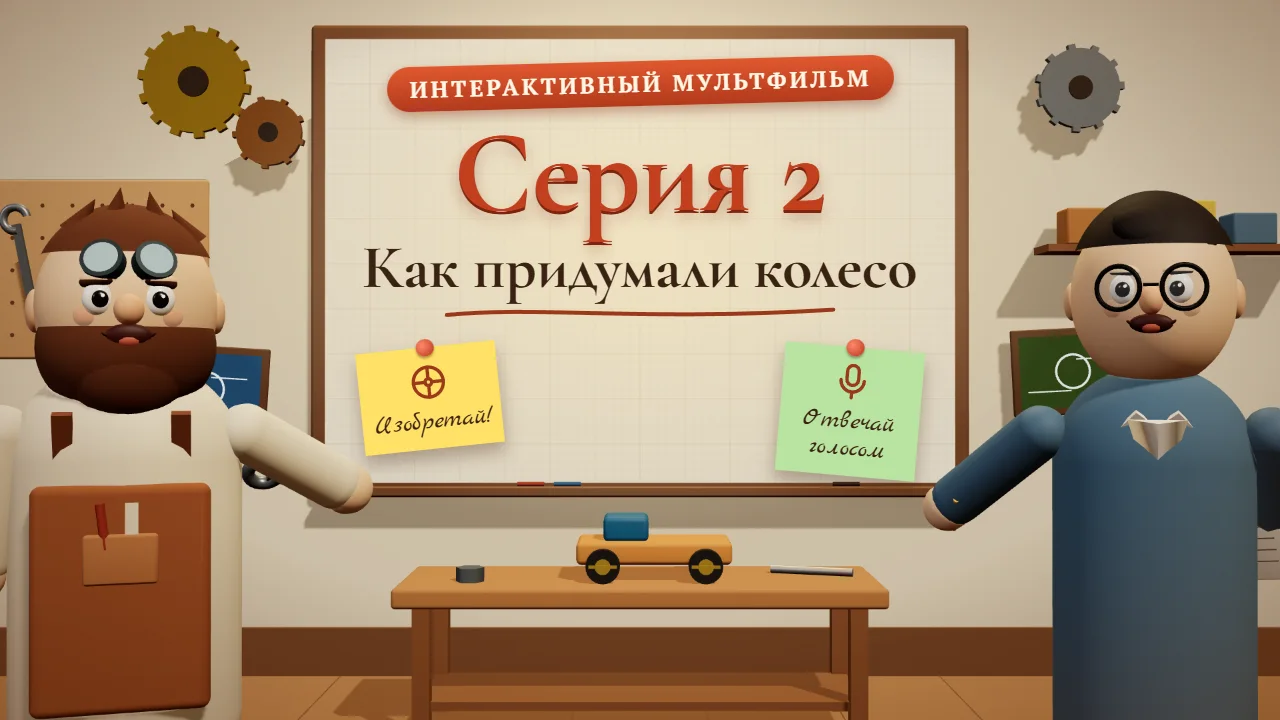
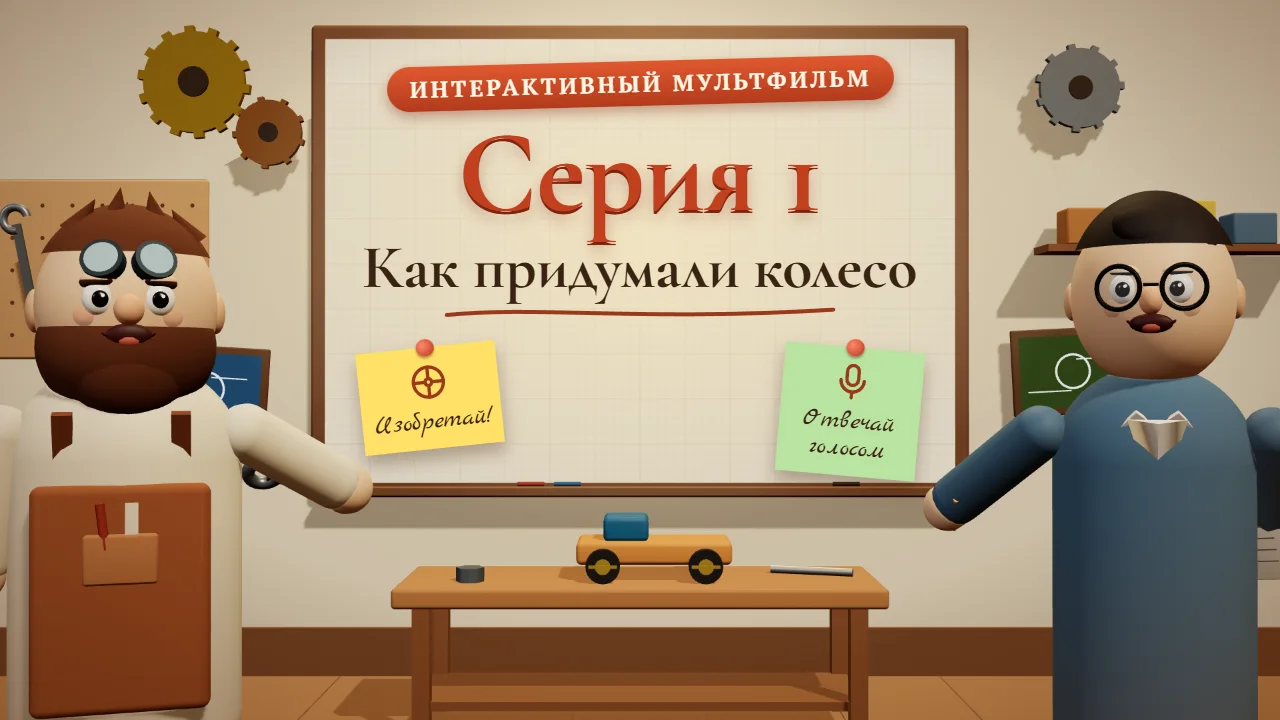
Нумерация с нуля: вводное — Занятие 0 и Серия 0; исправлена загрузка серии ep4
- Блоки курса «Колесо»: Занятие 0. Вводное, Занятие 1. Колесо… (миграция 20261103000040, откат в rollback);
  кружки на странице курса и «Земля N» на карте считают с 0, если первый блок вводный
- Серии: ep1 — Серия 0, ep2 — 1, ep3 — 2, ep4 — 3 (названия в плеере, обложки)
- ep4: slots: {} — без него плеер падал («Не удалось загрузить серию»); в плеере защита E.slots || {}

Changed region(s): [[0.375, 0.1833, 0.6562, 0.3361], [0.3438, 0.2139, 0.375, 0.275]]

diff --git a/episode.js b/episode.js
@@ -12,7 +12,7 @@
 // onAnswer({ run, node, question, answer, heard, via, tag }) — ответ на вопрос серии (run — один просмотр,
 // via: voice | text | button | mixed | skip | timeout, heard — что дословно распознал микрофон, tag — следующий узел).
 // Если onAnswer вернёт обещание с { deltas } (очки героя), плеер покажет их поверх кадра (Hero.pop из hero.js).
-// Серия 1 описана здесь; остальные — в episodes/<серия>.js (Episode.define), плеер подгружает файл, когда серию открывают.
+// Серия 0 (ep1, вводное занятие) описана здесь; остальные — в episodes/<серия>.js (Episode.define), плеер подгружает файл, когда серию открывают.
 // nameFrom: 'ep1' — имя ребёнка берётся из его ответа в серии 1; names: 'ep1' — записи обращений по имени из серии 1.
 (function () {
   const has = (t, ...w) => w.some((x) => t.includes(x));
@@ -31,11 +31,11 @@
   // ask: вопрос после ролика; kind: name | choice | free | ideas | any | pick (выбор своей идеи) | checks (вопросы «да / пока нет»);
   // next(ответ) → следующий узел
   // названия всех серий (нужны карточке занятия и админке до загрузки самой серии)
-  const TITLES = { ep2: 'Серия 2. Как придумали колесо', ep3: 'Серия 3. Трение, скольжение, качение', ep4: 'Серия 4. Большие и маленькие, узкие и широкие' };
+  const TITLES = { ep2: 'Серия 1. Как придумали колесо', ep3: 'Серия 2. Трение, скольжение, качение', ep4: 'Серия 3. Большие и маленькие, узкие и широкие' };
   const EPV = {/*EPV*/};   // метки версий файлов episodes/*.js — подставляет сборка
   const EPISODES = {
     ep1: {
-      title: 'Серия 1. Как мыслит инженер',   // обложка — /assets/episodes/<серия>-cover.webp (video/ep1/cover.mjs)
+      title: 'Серия 0. Как мыслит инженер',   // обложка — /assets/episodes/<серия>-cover.webp (video/ep1/cover.mjs)
       start: 'n01',
       slots: { name: [660, 300, 600, 80], problem: [580, 222, 340, 104], ideas: [572, 400, 816, 296], idea: [580, 196, 760, 76], good: [576, 346, 358, 104], fix: [986, 346, 358, 104], checks: [1290, 493, 50, 182] },   // в пикселях кадра 1920×1080
       endText: 'Не забудь задание: найди дома три предмета, которые придумали инженеры, и подумай, как бы ты их улучшил.',
@@ -195,7 +195,7 @@
     const stage = $('.ep-stage'), askEl = $('.ep-ask'), heard = $('.ep-heard'), opts = $('.ep-opts'), big = $('.ep-big');
     const prog = $('.ep-prog'), doneEl = $('.ep-done'), reachEl = $('.ep-reach'), knob = $('.ep-knob'), tip = $('.ep-tip'), marksEl = $('.ep-marks'), volIn = $('.ep-vol input');
     const slot = { name: $('.ep-slot-name'), problem: $('.ep-slot-problem'), ideas: $('.ep-slot-ideas'), idea: $('.ep-slot-idea'), good: $('.ep-slot-good'), fix: $('.ep-slot-fix'), checks: $('.ep-slot-checks') };
-    for (const [k, [x, y, w, h]] of Object.entries(E.slots)) Object.assign(slot[k].style, { left: x / 19.2 + '%', top: y / 10.8 + '%', width: w / 19.2 + '%', height: h / 10.8 + '%' });
+    for (const [k, [x, y, w, h]] of Object.entries(E.slots || {})) Object.assign(slot[k].style, { left: x / 19.2 + '%', top: y / 10.8 + '%', width: w / 19.2 + '%', height: h / 10.8 + '%' });
 
     const newRun = () => (crypto.randomUUID ? crypto.randomUUID() : 'xxxxxxxx-xxxx-4xxx-8xxx-xxxxxxxxxxxx'.replace(/x/g, () => (Math.random() * 16 | 0).toString(16)));
     let run = newRun();

diff --git a/world.js b/world.js
@@ -359,6 +359,7 @@
     const chests = new Set((status && status.chests) || []);
     const all = modules.flatMap((m) => m.lessons), ti = all.findIndex((l) => l.state !== 'done');
     const curBlock = ti >= 0 ? modules.findIndex((m) => m.lessons.includes(all[ti])) : modules.length - 1, fogFrom = curBlock + 1;
+    const n0 = /вводн/i.test((modules[0] && modules[0].title) || '') ? 0 : 1;   // вводный блок — земля 0, дальше 1, 2, 3…
     const { lay, road, imgs } = build(modules, slug, fogFrom, ti, (lay_, road_) => {
       const st_ = lay_.pts.filter((p) => p.kind === 'st'); return ti >= 0 ? road_.knots[lay_.pts.indexOf(st_[ti])] : road_.len;
     });
@@ -381,7 +382,7 @@
     });
     lay.regions.forEach((r) => {
       const ls = r.m.lessons, done = ls.filter((l) => l.state === 'done').length;
-      html += `<div class="wm-land${r.bi >= fogFrom ? ' fog' : ''}" style="top:${f1(((r.y0 + 22) / H) * 1000) / 10}%"><small>Земля ${r.bi + 1} · ${done} из ${ls.length}${done === ls.length && ls.length ? ' ✓' : ''}</small><b>${esc(r.m.title)}</b><span>${esc(r.biome.name)}</span></div>`;
+      html += `<div class="wm-land${r.bi >= fogFrom ? ' fog' : ''}" style="top:${f1(((r.y0 + 22) / H) * 1000) / 10}%"><small>Земля ${r.bi + n0} · ${done} из ${ls.length}${done === ls.length && ls.length ? ' ✓' : ''}</small><b>${esc(r.m.title)}</b><span>${esc(r.biome.name)}</span></div>`;
       r.stations.forEach((p) => {
         const l = p.l, sub = l.state === 'current' ? (l.steps ? `шаги: ${l.done} из ${l.steps}` : '') : { done: 'пройдена', review: 'на проверке', open: 'открыта', locked: 'закрыта', buy: 'не оплачена' }[l.state];
         const pct = l.steps ? Math.round((l.done * 100) / l.steps) : 0;

diff --git a/course-page.js b/course-page.js
@@ -13,7 +13,7 @@
       .map((m) => ({ ...m, lessons: (m.lessons || []).slice().sort((a, b) => a.sort - b.sort) }));
   }
 
-  // «Занятие 1. Вводное» → ['Занятие 1', 'Вводное']; «Модуль 3. …» → ['Модуль 3', '…']
+  // «Занятие 0. Вводное» → ['Занятие 0', 'Вводное']; «Модуль 3. …» → ['Модуль 3', '…']
   const split = (t) => {
     const m = String(t || '').match(/^((?:Заняти[ея]|Модуль|Блок)\s+[\d–-]+)\.\s*(.+)$/);
     return m ? [m[1], m[2]] : ['', String(t || '')];
@@ -77,8 +77,10 @@ ${available
 <h2>Программа курса «${esc(c.title)}»</h2>
 ${modules.length
     ? `<ol class="course-road">${modules.map((m, i) => {
+      // вводный блок — 0, дальше 1, 2, 3…
+      const n0 = /вводн/i.test(modules[0].title) ? 0 : 1;
       const [kind, name] = split(m.title);
-      return `<li class="road-stop"><span class="road-mark" aria-hidden="true">${i + 1}</span><div class="road-body">${kind ? `<span class="road-kind">${esc(kind)}</span>` : ''}<h3>${esc(name)}</h3>
+      return `<li class="road-stop"><span class="road-mark" aria-hidden="true">${i + n0}</span><div class="road-body">${kind ? `<span class="road-kind">${esc(kind)}</span>` : ''}<h3>${esc(name)}</h3>
 <ul class="road-mods">${m.lessons.map((l) => {
         const [badge, title] = split(l.title);
         return `<li class="road-mod">${badge ? `<span class="road-badge">${esc(badge)}</span>` : ''}<b>${esc(title)}</b>${summaryHtml(l.summary)}${l.research_task ? `<span class="road-lab"><i>исследование</i>${esc(l.research_task)}</span>` : ''}</li>`;

diff --git a/episodes/ep4.js b/episodes/ep4.js
@@ -1,11 +1,12 @@
-// Серия 4 «Большие и маленькие, узкие и широкие» (Модуль 3). Ролики — бакет episodes/ep4/, производство — video/ep4 (сценарий video/ep4/scenario.md).
+// Серия 3 «Большие и маленькие, узкие и широкие» (Модуль 3). Ролики — бакет episodes/ep4/, производство — video/ep4 (сценарий video/ep4/scenario.md).
 // Формат — как у серии 1 в episode.js; имя ребёнка и обращение «До встречи, …!» — из серии 1.
 (function () {
   const { has, norm } = Episode.util;
   Episode.define('ep4', {
-    title: 'Серия 4. Большие и маленькие, узкие и широкие',
+    title: 'Серия 3. Большие и маленькие, узкие и широкие',
     start: 'n01',
     nameFrom: 'ep1', names: 'ep1',
+    slots: {},   // полей ввода на кадре в этой серии нет
     endText: 'Не забудь задание: найди канавки на протекторе машины и нарисуй его рисунок. А в исследовании — заезды тележки с разными колёсами!',
     dur: { n01: 39.43, n02a: 9.7, n02b: 10.73, n03: 34.97, n04a: 14.3, n04b: 17.87, n05: 28.63, n06a: 8.53, n06b: 8.1, n07: 41.4, n08a: 7.9, n08b: 10.57, n08c: 11.33, n09: 44.63, n10a: 8.03, n10b: 7.6, n11: 38.57, n12a: 8.57, n12b: 10.43, n13: 48.97, n14: 8.43, n15: 40.77, n16: 6.73 },
     voice: { n16: { slot: 'bye', at: 1.7, room: 1.37 } },

diff --git a/episodes/ep3.js b/episodes/ep3.js
@@ -1,9 +1,9 @@
-// Серия 3 «Трение, скольжение, качение» (Модуль 2). Ролики — бакет episodes/ep3/, производство — video/ep3 (сценарий video/ep3/scenario.md).
+// Серия 2 «Трение, скольжение, качение» (Модуль 2). Ролики — бакет episodes/ep3/, производство — video/ep3 (сценарий video/ep3/scenario.md).
 // Формат — как у серии 1 в episode.js; имя ребёнка и обращение «До встречи, …!» — из серии 1.
 (function () {
   const { has, norm } = Episode.util;
   Episode.define('ep3', {
-    title: 'Серия 3. Трение, скольжение, качение',
+    title: 'Серия 2. Трение, скольжение, качение',
     start: 'n01',
     nameFrom: 'ep1', names: 'ep1',
     slots: { ideas: [572, 250, 816, 430] },   // в пикселях кадра 1920×1080

diff --git a/episodes/ep2.js b/episodes/ep2.js
@@ -1,9 +1,9 @@
-// Серия 2 «Как придумали колесо» (Модуль 1). Ролики — бакет episodes/ep2/, производство — video/ep2 (сценарий video/ep2/scenario.md).
+// Серия 1 «Как придумали колесо» (Модуль 1). Ролики — бакет episodes/ep2/, производство — video/ep2 (сценарий video/ep2/scenario.md).
 // Формат — как у серии 1 в episode.js; имя ребёнка и обращение «До встречи, …!» — из серии 1.
 (function () {
   const { has, norm } = Episode.util;
   Episode.define('ep2', {
-    title: 'Серия 2. Как придумали колесо',
+    title: 'Серия 1. Как придумали колесо',
     start: 'n01',
     nameFrom: 'ep1', names: 'ep1',
     slots: { ideas: [572, 250, 816, 430] },   // в пикселях кадра 1920×1080

diff --git a/CLAUDE.md b/CLAUDE.md
@@ -73,7 +73,7 @@
   Производство (в video/): <серия>/scenario.md и lines.json (поле say — текст для озвучки, если ударение не то),
   `EP=ep2 node series/voice-q.mjs` → qsay.py → `series/pick-takes.mjs`; сцены — src/<серия>/ на общем наборе src/series/Kit.tsx;
   `EP=ep2 node series/render.mjs` (STILL=n03:300,… — кадры для просмотра), `series/cover.mjs`; dur/voice из timing.json → episodes/<серия>.js.
-  Серия 2 «Как придумали колесо» — Модуль 1 курса «Колесо», серия 3 «Трение, скольжение, качение» — Модуль 2, серия 4 «Большие и маленькие, узкие и широкие» — Модуль 3 (миграция 20261102000039).
+  Номера серий для ученика начинаются с 0, как и занятия (вводное — «Занятие 0», миграция 20261103000040): ep1 — «Серия 0. Как мыслит инженер» (вводное), ep2 — «Серия 1. Как придумали колесо» (Модуль 1 курса «Колесо»), ep3 — «Серия 2. Трение, скольжение, качение» (Модуль 2), ep4 — «Серия 3. Большие и маленькие, узкие и широкие» (Модуль 3, миграция 20261102000039). Номер — в титрах (Title/Cover num) и в episode.js TITLES/title; id серий ep1…ep4 и папки бакета не меняются. Кружки на странице курса и «Земля N» на карте тоже считают с 0, если первый блок вводный.
 - Темы встречи с преподавателем: lesson_content.meet (по строке на тему, у ученика — блок «🚩 На занятии обсуждаем»,
   в серии — на обороте карточки), заметки преподавателя — lesson_notes (ученик не видит); правка — админка → Материалы.
 - Админка: меню слева по группам (Работа с учениками / Курсы / Сайт / Настройки), на главной — плитки «что нужно сделать».
